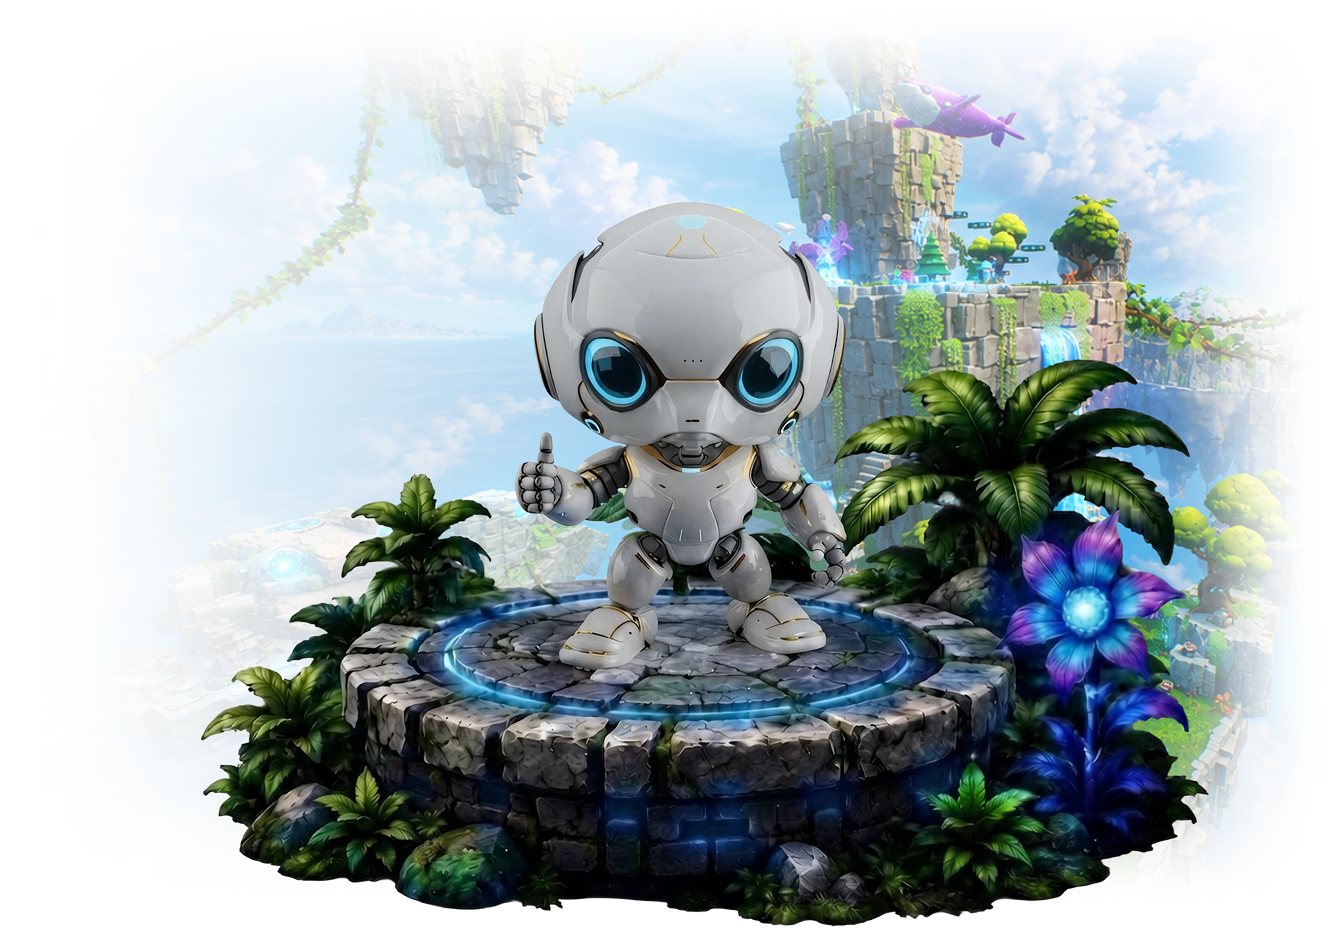
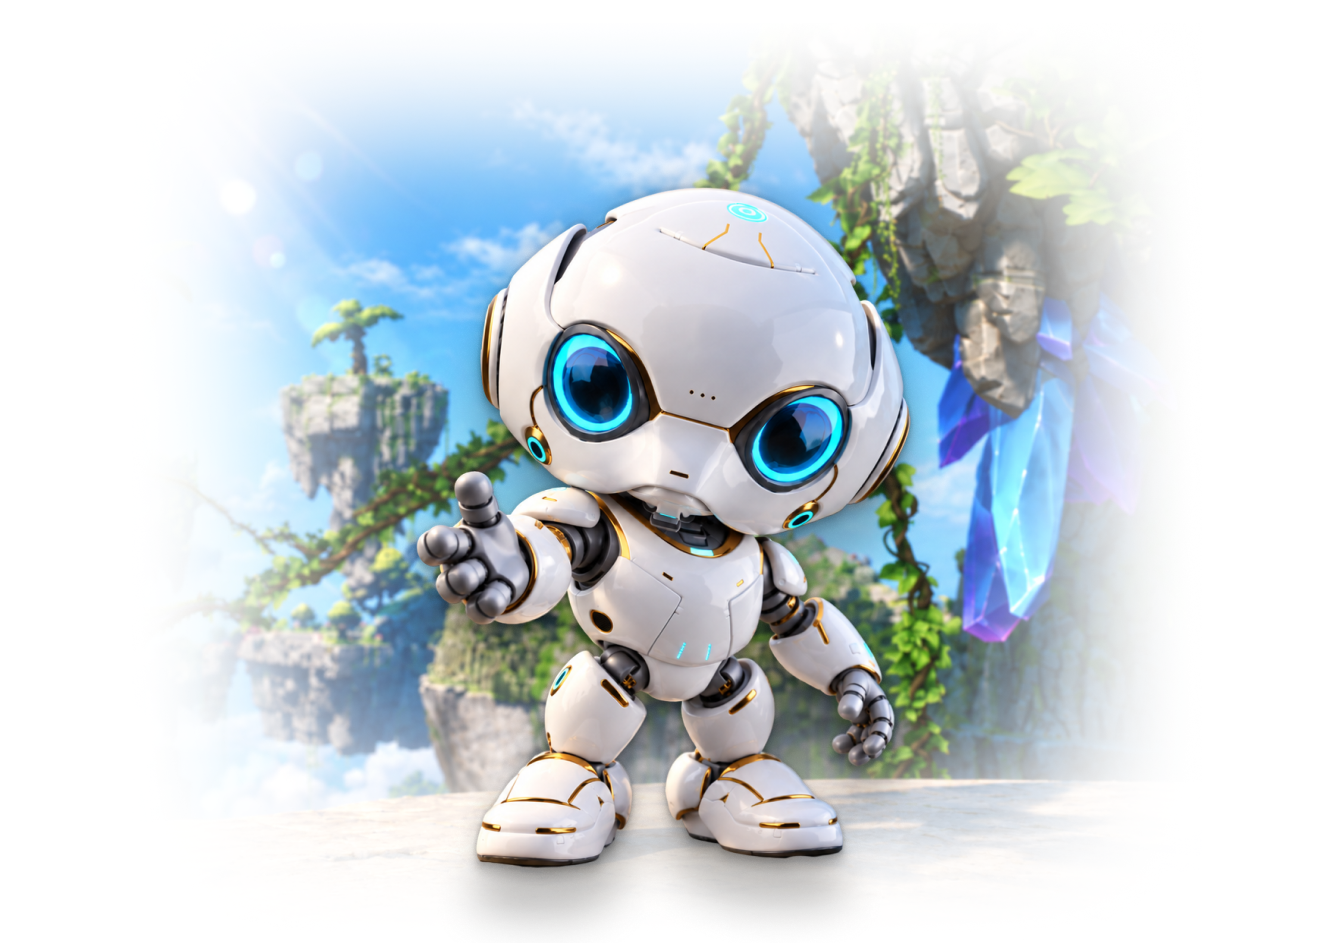
image set

diff --git a/index.html b/index.html
@@ -229,6 +229,70 @@
                     #05eaf9 100%);
         }
 
+        /* ================= HERO section ================= */
+        /* full-bleed background art behind "BEYOND THE HORIZON" copy. Plain CSS (not
+           Tailwind utility classes) so it always fills edge-to-edge even if the
+           Tailwind CDN script is slow, blocked, or fails to load. */
+       .sec-hero {
+        position: relative;
+        overflow: hidden;
+    }
+
+    .sec-hero .h-bg-wrap {
+        position: absolute;
+        inset: 0;
+        width: 96%;
+        height: 100%;
+        pointer-events: none;
+        user-select: none;
+        z-index: 0;
+    }
+
+    .sec-hero .h-bg-overlay {
+        position: absolute;
+        inset: 0;
+        width: 100%;
+        height: 100%;
+    }
+
+    .sec-hero .h-bg-img {
+        position: absolute;
+        inset: 0;
+        display: block;
+        width: 100%;
+        height: 100%;
+        max-width: none;
+        object-fit: contain;
+        object-position: center center;
+    }
+
+    .sec-hero .h-gradient-right {
+        position: absolute;
+        inset: 0;
+        pointer-events: none;
+        background-image: linear-gradient(
+            -89.97873232796866deg,
+            rgba(9, 31, 52, 0.66) 2.3857%,
+            rgba(9, 31, 52, 0.66) 23.633%,
+            rgba(9, 31, 52, 0.66) 41.847%,
+            rgba(9, 31, 52, 0) 66.374%
+        );
+    }
+
+    .sec-hero .h-gradient-bottom {
+        position: absolute;
+        bottom: 0;
+        left: 0;
+        right: 0;
+        height: 260px;
+        pointer-events: none;
+        background-image: linear-gradient(
+            180deg,
+            rgba(9, 31, 52, 0) 0%,
+            #091f34 92%
+        );
+    }
+
         /* ================= GAMEPLAY section ================= */
         /* full-bleed background photo behind the "MOVE. FIGHT. MASTER." copy + art */
         .sec-gameplay .g-bg {
@@ -1524,24 +1588,23 @@
         <section class="sec sec-hero" style="position: relative; width: 1920px; height: 1092px">
 
 
-            </div>
             <div class="-translate-x-1/2 -translate-y-1/2 absolute h-[1132px] left-1/2 top-[566px] w-[1920px]"
                 data-node-id="6118:22943" data-name="BG"></div>
-            <div class="-translate-x-1/2 -translate-y-1/2 absolute h-[1241px] left-[calc(45.83%+32.5px)] top-[511.5px] w-[2105px]"
-                data-node-id="6118:23411" data-name="BG">
-                <div aria-hidden="" class="absolute inset-0 pointer-events-none">
-                    <img alt="" class="absolute inset-0 max-w-none object-cover size-full" src="image/1.png" />
-                    <div class="absolute inset-0"
-                        style="
-                background-image: linear-gradient(
-                  -89.97873232796866deg,
-                  rgba(9, 31, 52, 0.66) 2.3857%,
-                  rgba(9, 31, 52, 0.66) 23.633%,
-                  rgba(9, 31, 52, 0.66) 41.847%,
-                  rgba(9, 31, 52, 0) 66.374%
-                );
-              ">
-                    </div>
+           <div class="h-bg-wrap">
+        <div aria-hidden="true" class="h-bg-overlay">
+            <img
+                alt=""
+                class="h-bg-img"
+                src="image/1.png"
+            />
+
+            <!-- Right dark gradient -->
+            <div class="h-gradient-right"></div>
+
+            <!-- Bottom dark gradient -->
+            <div class="h-gradient-bottom"></div>
+        </div>
+    </div>
                     <div class="absolute bottom-0 left-0 right-0 h-[260px]"
                         style="
                 background-image: linear-gradient(
@@ -1629,8 +1692,9 @@
                 class="absolute flex items-center justify-center h-[23px] w-[23px] left-[calc(66.67%+3px)] top-[611px]">
                 <div class="hr-box"></div>
             </div>
-            <div class="absolute h-[2px] w-[296px] left-[calc(66.67%+45px)] top-[621px] hr-line-r"></div>
+             <div class="absolute h-[2px] w-[296px] left-[calc(66.67%+45px)] top-[621px] hr-line-r"></div>
             <div class="absolute h-[2px] w-[296px] left-[calc(50%+8px)] top-[621px] hr-line-l"></div>
+            
         </section>
         <!-- ==================== MEET PIXO  ·  "THIS IS PIXO" ==================== -->
         <section class="sec sec-meet" style="position: relative; width: 1920px; height: 1020px">
